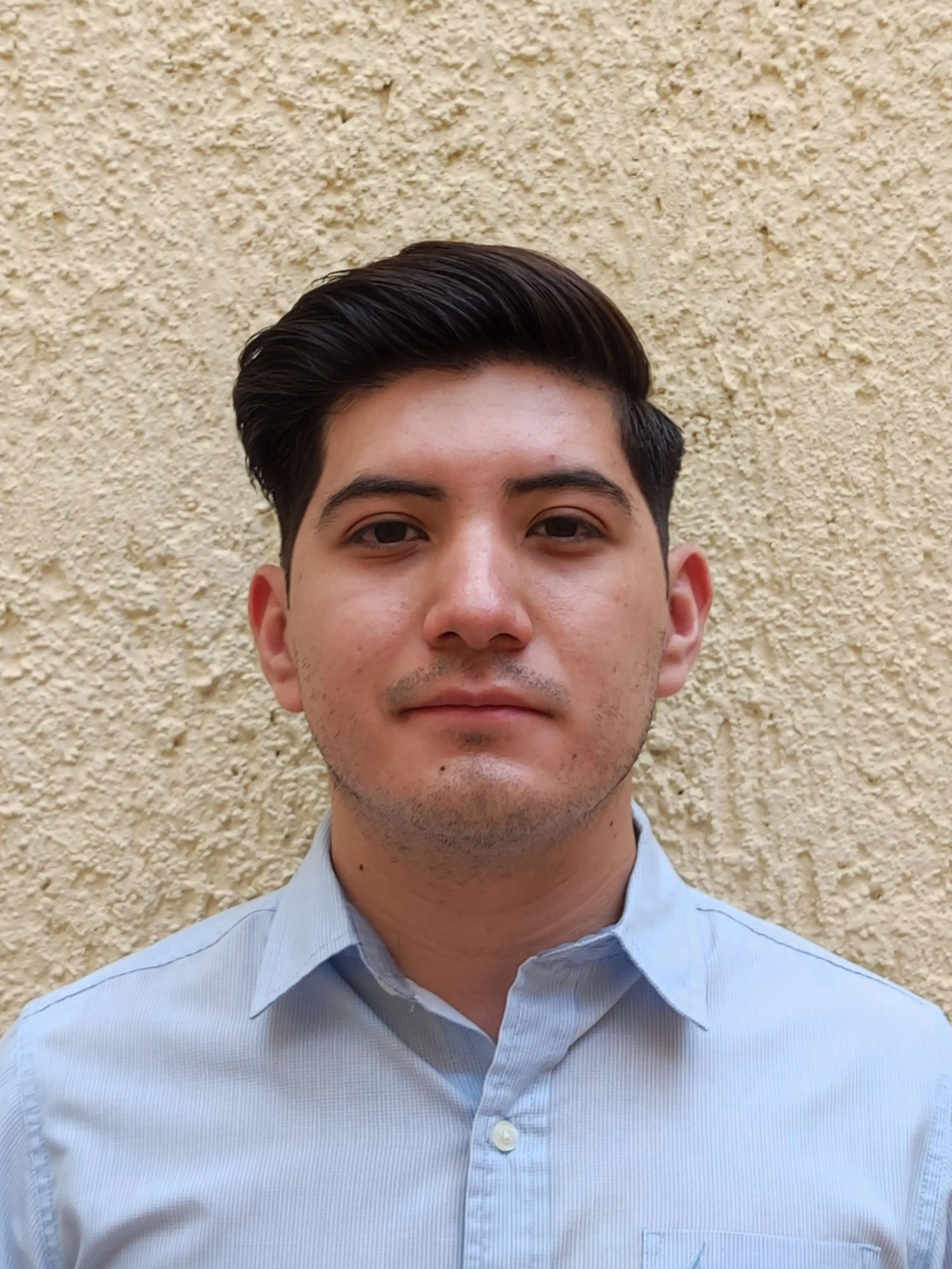
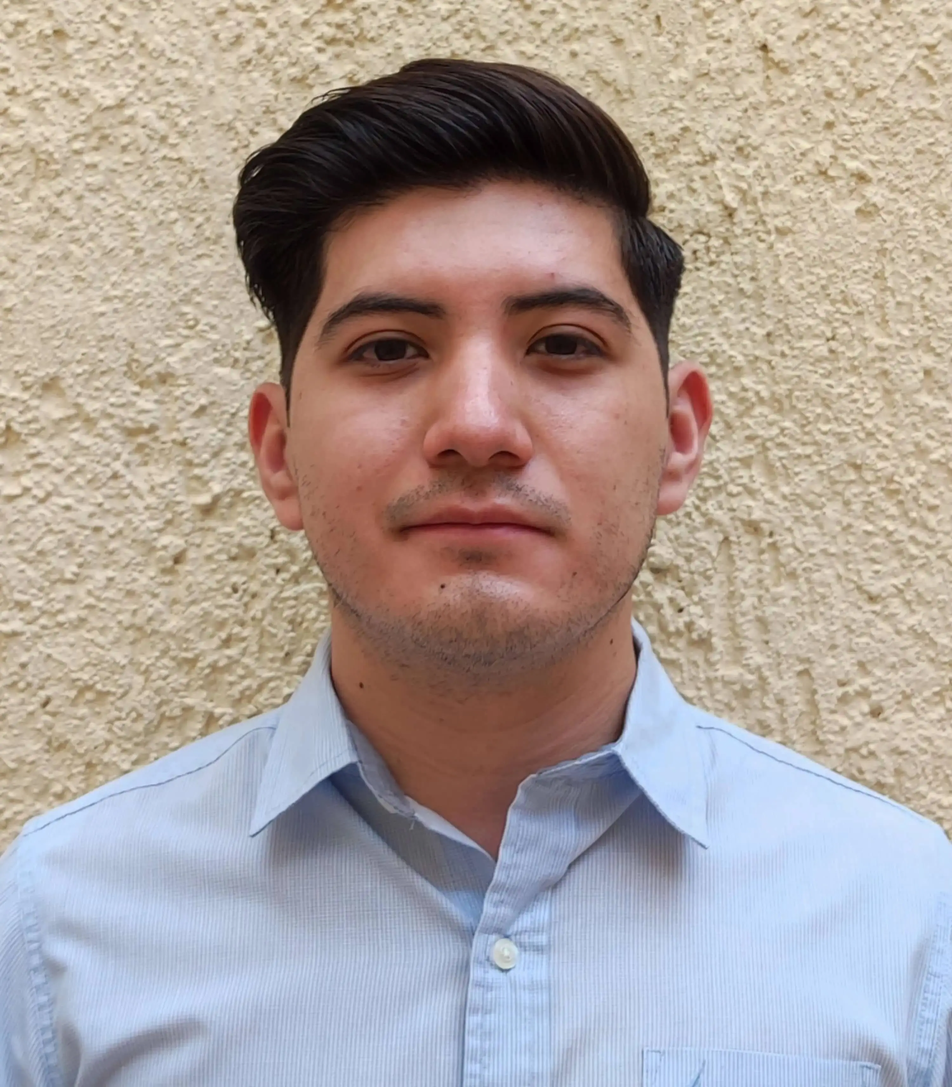
Build and style AboutMe section.

diff --git a/src/components/AboutMe.tsx b/src/components/AboutMe.tsx
@@ -1,0 +1,22 @@
+import { FaUserCheck } from "react-icons/fa6";
+import gerard from '../assets/photo.webp'
+
+const AboutMe = () => {
+  return (
+    <>
+    <h2 className="text-white text-4xl font-semibold flex mt-5"><FaUserCheck color="#00a8e8" />&nbsp;
+    About Me
+    </h2>
+    <div className="grid md:grid-cols-2 lg:grid-cols-3">
+        <div className="lg:col-span-2 md:pr-2">
+            <p className="text-white text-balance my-2 md:text-wrap lg:my-5">My name is Gerardo de León García, and I am a biomedical engineer. I started programming at the age of 17, following a learning path in high school that taught C, C++, and web programming with HTML, CSS, and Wix. In university, I studied C and MATLAB.</p>
+            <p className="text-white text-balance mb-2 md:text-wrap lg:mb-0">A year ago, I decided to become a frontend developer because it's the area I'm passionate about—a passion reflected in the enthusiasm and dedication I bring to each project.</p>
+            <p className="text-white text-balance mb-2 md:text-wrap lg:mb-0">I currently have one year of experience developing websites and real-world projects. I am available to work and face challenges in a professional environment.</p>
+        </div>
+        <div className="flex items-center min-[400px]:w-1/2 min-[400px]:mx-auto md:w-[95%] lg:w-3/4"><img src={gerard} alt="Gerardo's photo" className="rounded-lg" /></div>
+    </div>
+    </>
+  )
+}
+
+export default AboutMe

diff --git a/src/components/StackSection.tsx b/src/components/StackSection.tsx
@@ -1,13 +1,16 @@
 import StackFrontend from "./StackFrontend"
 import StackLearning from "./StackLearning"
 import StackTools from "./StackTools"
+import { HiMiniSquare3Stack3D } from "react-icons/hi2";
 
 
 
 const StackSection = () => {
   return (
     <>
-    <h2 className="text-4xl font-semibold text-white my-5">Stack</h2>
+    <h2 className="text-4xl font-semibold text-white my-5 flex"><HiMiniSquare3Stack3D color="#00a8e8"/>
+    &nbsp;
+    Stack</h2>
     <div className="grid grid-cols-1 gap-3 md:gap-5 md:grid-cols-2 lg:grid-cols-3">
         <StackFrontend />
         <StackTools />

diff --git a/src/App.tsx b/src/App.tsx
@@ -1,4 +1,5 @@
 import "./App.css";
+import AboutMe from "./components/AboutMe";
 import HeaderSection from "./components/HeaderSection";
 import NavBar from "./components/NavBar";
 import ProjectsSection from "./components/ProjectsSection";
@@ -12,6 +13,7 @@ function App() {
         <HeaderSection />
         <ProjectsSection />
         <StackSection />
+        <AboutMe />
       </div>
     </div>
   );
